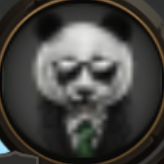
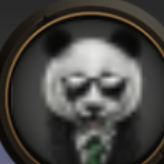
some more screencap scripts

diff --git a/scripts/search_position.py b/scripts/search_position.py
@@ -4,8 +4,8 @@ from cv2.quality import QualitySSIM_compute as ssim
 
 from my_packages.image_tools import templates, screen_manager
 
-corter = (321, 750)
-radius = 30
+corter = (321, 1300)
+radius = 70
 template = templates.BLUE
 
 